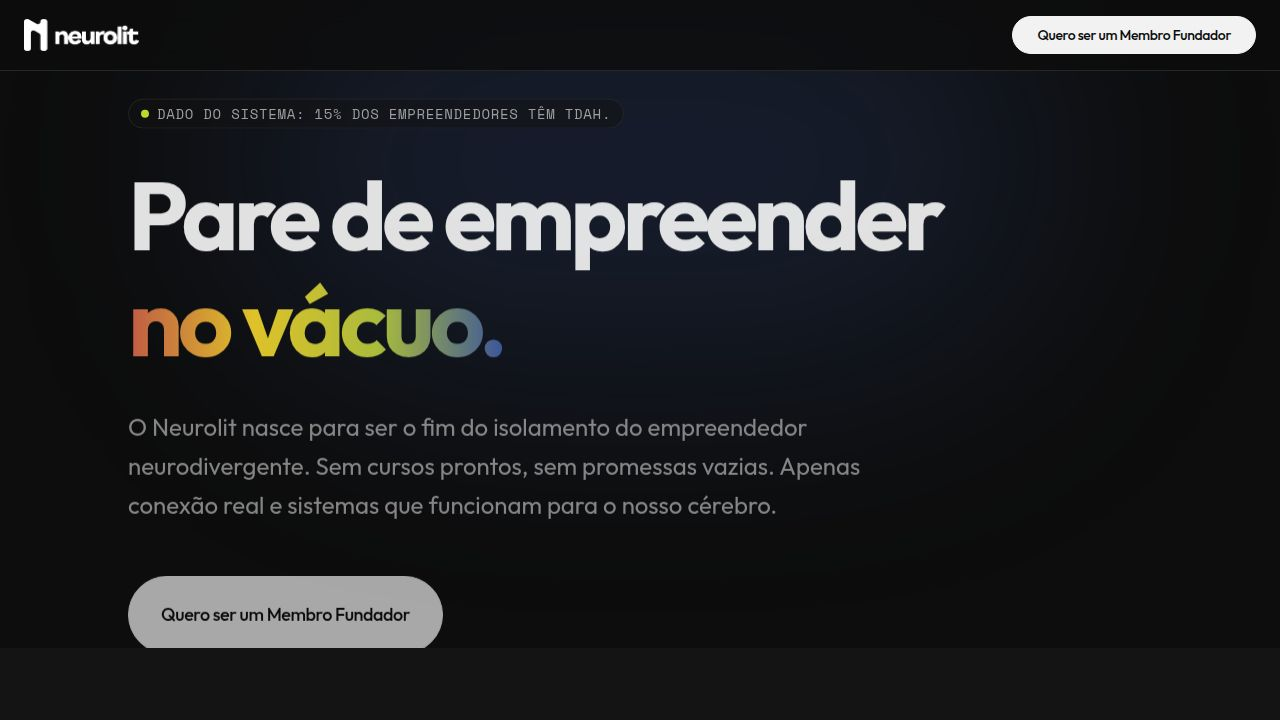
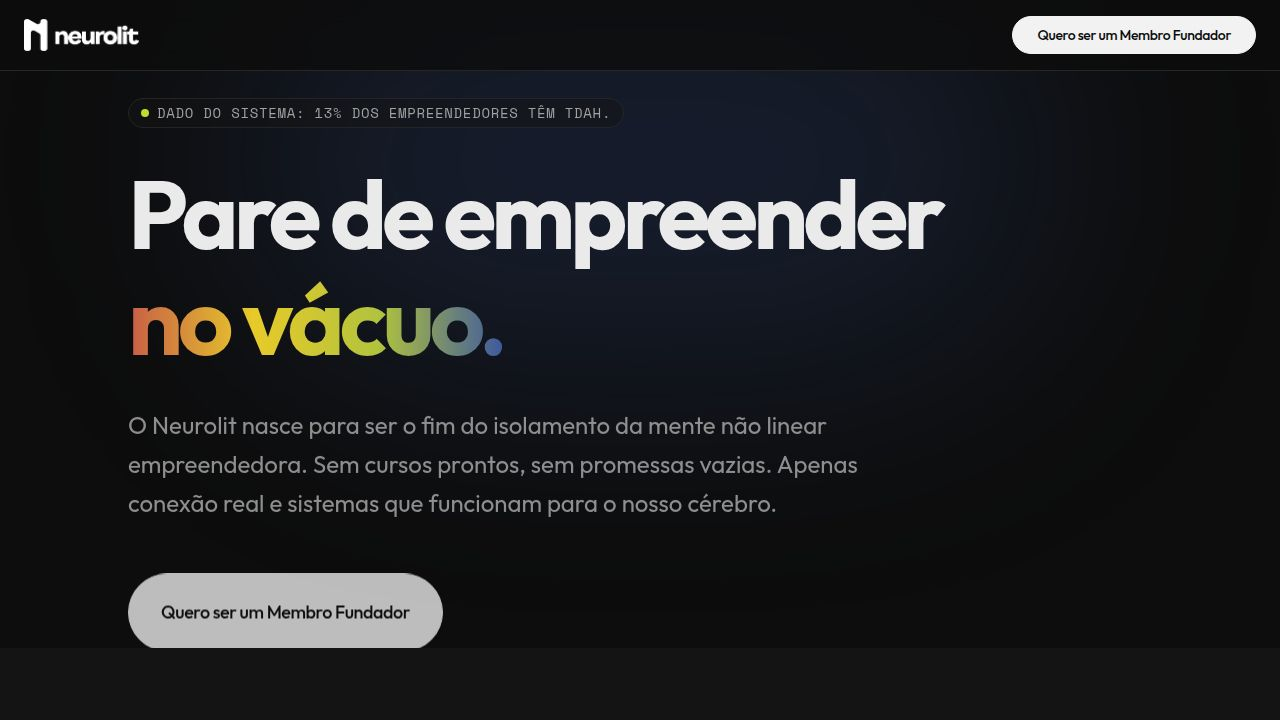
feat(neurolit): "mentes não-lineares" language + ForQuem section + cursor-pointer
Task #21 — Linguagem "mentes não-lineares" + seção Para quem é + cursor

## Language substitutions in App.tsx
- Hero subtitle: "empreendedor neurodivergente" → "mente não linear empreendedora"
- cartaLines: "empreendedor neurodivergente" → "empreendedor de mente não linear"
- ThePlan step 3: "cérebros neurodivergentes" → "mentes não-lineares"
- Comparison left panel title: "método neurotípico" → "método linear"
- FAQ last answer: "traço neurodivergente" → "traço de mente não linear"
- Technical terms (TDAH, autismo, 2e) preserved throughout

## New ForQuem section
- Inserted between Comparison and FinalCTA in LandingPage
- Two-column layout: "É para você" (lime) and "Não é para você" (destructive)
- "É para você": Empreendedores e Visionários · Mentes Não Lineares · Busca por Sistemas
- "Não é para você": Busca por Cura ou Conselhos Médicos · Amantes de Métodos Lineares · Espectadores Passivos
- Section header: "Clareza antes de começar" / "Para quem é o Neurolit?"
- whileInView animations consistent with rest of page, prefers-reduced-motion aware

## Cursor pointer
- Added cursor-pointer to Navbar CTA button
- Added cursor-pointer to Hero CTA button
- Added cursor-pointer to FinalCTA button

No deviations from the task plan.

diff --git a/artifacts/neurolit/src/App.tsx b/artifacts/neurolit/src/App.tsx
@@ -37,7 +37,7 @@ function Navbar() {
         <img src={logoHorizontal} alt="Neurolit" className="hidden md:block h-8 w-auto" />
         <img src={logoVertical} alt="Neurolit" className="block md:hidden h-10 w-auto" />
       </div>
-      <Button className="bg-foreground text-background hover:bg-foreground/90 font-medium tracking-tight rounded-full px-6" data-testid="button-nav-cta">
+      <Button className="bg-foreground text-background hover:bg-foreground/90 font-medium tracking-tight rounded-full px-6 cursor-pointer" data-testid="button-nav-cta">
         Quero ser um Membro Fundador
       </Button>
     </motion.header>
@@ -126,7 +126,7 @@ function Hero() {
           transition={{ ...entryTransition, delay: prefersReducedMotion ? 0 : 0.3 }}
           style={{ willChange: "opacity, transform" }}
         >
-          O Neurolit nasce para ser o fim do isolamento do empreendedor neurodivergente. Sem cursos prontos, sem promessas vazias. Apenas conexão real e sistemas que funcionam para o nosso cérebro.
+          O Neurolit nasce para ser o fim do isolamento da mente não linear empreendedora. Sem cursos prontos, sem promessas vazias. Apenas conexão real e sistemas que funcionam para o nosso cérebro.
         </motion.p>
 
         <motion.div 
@@ -136,7 +136,7 @@ function Hero() {
           transition={{ ...entryTransition, delay: prefersReducedMotion ? 0 : 0.4 }}
           style={{ willChange: "opacity, transform" }}
         >
-          <Button size="lg" className="bg-foreground text-background hover:bg-foreground/90 font-medium tracking-tight rounded-full px-8 py-6 text-lg w-full sm:w-auto group relative overflow-hidden" data-testid="button-hero-cta">
+          <Button size="lg" className="bg-foreground text-background hover:bg-foreground/90 font-medium tracking-tight rounded-full px-8 py-6 text-lg w-full sm:w-auto group relative overflow-hidden cursor-pointer" data-testid="button-hero-cta">
             <span className="relative z-10 flex items-center gap-2">
               Quero ser um Membro Fundador
             </span>
@@ -160,7 +160,7 @@ const cartaLines = [
   },
   {
     type: "p",
-    content: "Cansei de ouvir isso. E cansei mais ainda de me sentir sozinho nesse processo. O isolamento do empreendedor neurodivergente não é falta de vontade — é falta de tribo.",
+    content: "Cansei de ouvir isso. E cansei mais ainda de me sentir sozinho nesse processo. O isolamento da mente não linear empreendedora não é falta de vontade — é falta de tribo.",
     className: ""
   },
   {
@@ -387,7 +387,7 @@ function ThePlan() {
     },
     {
       title: "Construir o novo padrão",
-      desc: "Acesse frameworks e estratégias construídos para cérebros neurodivergentes."
+      desc: "Acesse frameworks e estratégias construídos para mentes não-lineares."
     }
   ];
 
@@ -431,7 +431,7 @@ function Comparison() {
           transition={{ duration: prefersReducedMotion ? 0.2 : 0.6 }}
           style={{ willChange: "opacity, transform" }}
         >
-          <h3 className="text-xl font-bold mb-8 text-destructive/80">Continuar tentando o método neurotípico</h3>
+          <h3 className="text-xl font-bold mb-8 text-destructive/80">Continuar tentando o método linear</h3>
           <ul className="space-y-6">
             {["Foguete no chão", "Sentimento de incompetência", "Ciclos de burnout", "Métodos que nunca encaixam"].map((item, i) => (
               <li key={i} className="flex items-center gap-4 text-muted-foreground">
@@ -466,6 +466,111 @@ function Comparison() {
   );
 }
 
+function ForQuem() {
+  const prefersReducedMotion = useReducedMotion();
+
+  const paraQuemE = [
+    {
+      label: "Empreendedores e Visionários",
+      desc: "Pessoas de 25 a 45 anos que já possuem ou estão construindo um negócio."
+    },
+    {
+      label: "Mentes Não Lineares",
+      desc: "Quem possui TDAH, autismo, dupla excepcionalidade (2e) ou simplesmente não se encaixa nos métodos tradicionais de execução."
+    },
+    {
+      label: "Busca por Sistemas",
+      desc: "Quem entende que o problema não é a falta de capacidade, mas a incompatibilidade do método e busca uma nova arquitetura de trabalho."
+    }
+  ];
+
+  const paraQuemNaoE = [
+    {
+      label: "Busca por Cura ou Conselhos Médicos",
+      desc: "O foco é business e estratégia, não tratamento clínico ou terapêutico."
+    },
+    {
+      label: "Amantes de Métodos Lineares",
+      desc: "Pessoas que buscam fórmulas mágicas e rígidas de 'passo a passo' tradicionais que ignoram o funcionamento cerebral."
+    },
+    {
+      label: "Espectadores Passivos",
+      desc: "Quem não deseja compartilhar desafios ou cocriar a base da comunidade."
+    }
+  ];
+
+  return (
+    <section className="py-32 px-6 bg-card border-t border-border">
+      <div className="max-w-6xl mx-auto">
+        <motion.div
+          initial={{ opacity: 0, y: prefersReducedMotion ? 0 : 30 }}
+          whileInView={{ opacity: 1, y: 0 }}
+          viewport={{ once: true, margin: "-30px" }}
+          transition={{ duration: prefersReducedMotion ? 0.2 : 0.7 }}
+          style={{ willChange: "opacity, transform" }}
+          className="text-center mb-16"
+        >
+          <div className="text-sm font-mono text-brand-lime uppercase tracking-wider mb-4">Clareza antes de começar</div>
+          <h2 className="text-3xl md:text-5xl font-bold">Para quem é o Neurolit?</h2>
+        </motion.div>
+
+        <div className="grid md:grid-cols-2 gap-8">
+          <motion.div
+            initial={{ opacity: 0, x: prefersReducedMotion ? 0 : -20 }}
+            whileInView={{ opacity: 1, x: 0 }}
+            viewport={{ once: true, margin: "-30px" }}
+            transition={{ duration: prefersReducedMotion ? 0.2 : 0.6 }}
+            style={{ willChange: "opacity, transform" }}
+            className="p-8 md:p-12 rounded-3xl border border-brand-lime/30 bg-brand-lime/5 relative overflow-hidden"
+          >
+            <div className="absolute top-0 right-0 w-48 h-48 bg-brand-lime/10 blur-[60px] rounded-full pointer-events-none" />
+            <div className="relative z-10">
+              <div className="inline-flex items-center gap-2 px-3 py-1 rounded-full bg-brand-lime/20 text-brand-lime text-sm font-mono uppercase tracking-wider mb-8">
+                <span>✓</span> É para você
+              </div>
+              <ul className="space-y-8">
+                {paraQuemE.map((item, i) => (
+                  <li key={i} className="flex gap-4">
+                    <div className="w-1.5 h-1.5 rounded-full bg-brand-lime mt-3 flex-shrink-0" />
+                    <div>
+                      <p className="font-bold text-foreground mb-1">{item.label}</p>
+                      <p className="text-muted-foreground leading-relaxed">{item.desc}</p>
+                    </div>
+                  </li>
+                ))}
+              </ul>
+            </div>
+          </motion.div>
+
+          <motion.div
+            initial={{ opacity: 0, x: prefersReducedMotion ? 0 : 20 }}
+            whileInView={{ opacity: 1, x: 0 }}
+            viewport={{ once: true, margin: "-30px" }}
+            transition={{ duration: prefersReducedMotion ? 0.2 : 0.6 }}
+            style={{ willChange: "opacity, transform" }}
+            className="p-8 md:p-12 rounded-3xl border border-destructive/20 bg-destructive/5"
+          >
+            <div className="inline-flex items-center gap-2 px-3 py-1 rounded-full bg-destructive/10 text-destructive/80 text-sm font-mono uppercase tracking-wider mb-8">
+              <span>✕</span> Não é para você
+            </div>
+            <ul className="space-y-8">
+              {paraQuemNaoE.map((item, i) => (
+                <li key={i} className="flex gap-4">
+                  <div className="w-1.5 h-1.5 rounded-full bg-destructive/50 mt-3 flex-shrink-0" />
+                  <div>
+                    <p className="font-bold text-foreground mb-1">{item.label}</p>
+                    <p className="text-muted-foreground leading-relaxed">{item.desc}</p>
+                  </div>
+                </li>
+              ))}
+            </ul>
+          </motion.div>
+        </div>
+      </div>
+    </section>
+  );
+}
+
 function FinalCTA() {
   const prefersReducedMotion = useReducedMotion();
   return (
@@ -482,7 +587,7 @@ function FinalCTA() {
           <p className="text-lg md:text-xl text-muted-foreground max-w-2xl mx-auto mb-12 leading-relaxed">
             Para entrar no grupo de networking, você passará por um breve mapeamento de perfil. É aqui que nossa construção começa.
           </p>
-          <Button size="lg" className="bg-foreground text-background hover:bg-foreground/90 font-medium tracking-tight rounded-full px-10 py-8 text-xl w-full sm:w-auto mb-6" data-testid="button-final-cta">
+          <Button size="lg" className="bg-foreground text-background hover:bg-foreground/90 font-medium tracking-tight rounded-full px-10 py-8 text-xl w-full sm:w-auto mb-6 cursor-pointer" data-testid="button-final-cta">
             Quero ser um Membro Fundador
           </Button>
           <p className="text-muted-foreground font-mono text-sm uppercase tracking-widest">
@@ -514,7 +619,7 @@ function FAQ() {
     },
     {
       q: "E se eu não tiver TDAH, mas me identificar?",
-      a: "Então você provavelmente tem algum traço neurodivergente. Muitas pessoas descobrem isso dentro da comunidade. O diagnóstico médico não é pré-requisito para se beneficiar dos métodos."
+      a: "Então você provavelmente tem algum traço de mente não linear. Muitas pessoas descobrem isso dentro da comunidade. O diagnóstico médico não é pré-requisito para se beneficiar dos métodos."
     }
   ];
 
@@ -578,6 +683,7 @@ function LandingPage() {
         <Pillars />
         <ThePlan />
         <Comparison />
+        <ForQuem />
         <FinalCTA />
         <FAQ />
       </main>
